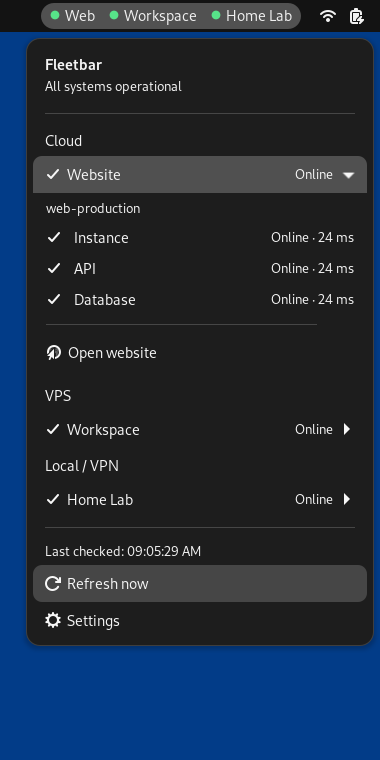
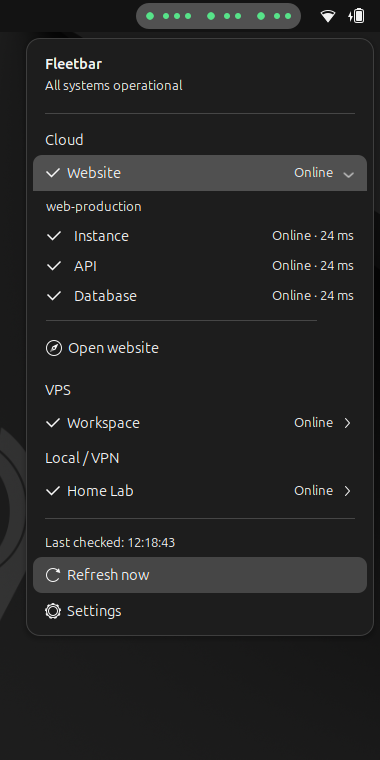
Show one status dot per service in the panel
Every project keeps its aggregate dot and label and gains a smaller dot
per service check, in configured order, so the failing component is
visible at a glance without opening the menu. Service dots use the same
semantic theme colors, name themselves for screen readers and extend
the panel description with the failing services. The new
show-service-dots setting (default on) turns them off for a compact bar.

Updates README, store listing, validation record and screenshots, adds
Spanish translations for the new setting and extends the model and
Shell smoke tests. Version 1.2.0.

diff --git a/shell/projectIndicators.js b/shell/projectIndicators.js
@@ -9,6 +9,10 @@ const darkColors = {up: '#57e389', degraded: '#f8e45c', down: '#ff7b63', unknown
 const lightColors = {up: '#1a7f4b', degraded: '#9c6e03', down: '#c01c28', unknown: '#5e5c64'};
 const themeColors = {up: 'success_color', degraded: 'warning_color', down: 'error_color'};
 
+function stateLabel(state) {
+    return {up: _('Online'), degraded: _('Needs attention'), down: _('Offline'), unknown: _('Unknown')}[state];
+}
+
 export class ProjectIndicators {
     constructor(owner) {
         this.actor = new St.BoxLayout({style_class: 'fleetbar-projects', y_align: Clutter.ActorAlign.CENTER});
@@ -27,24 +31,45 @@ export class ProjectIndicators {
             const label = new St.Label({text: project.panelLabel || project.name, style_class: 'fleetbar-project-label',
                 y_align: Clutter.ActorAlign.CENTER});
             label.clutter_text.ellipsize = Pango.EllipsizeMode.END;
+            const services = new St.BoxLayout({style_class: 'fleetbar-services', y_align: Clutter.ActorAlign.CENTER});
+            const serviceDots = project.services.map(service => {
+                const serviceDot = new St.Icon({icon_name: 'media-record-symbolic',
+                    style_class: 'fleetbar-service-dot', y_align: Clutter.ActorAlign.CENTER});
+                serviceDot.accessible_name = `${service.name}: ${stateLabel('unknown')}`;
+                services.add_child(serviceDot);
+                return {dot: serviceDot, state: 'unknown'};
+            });
             badge.add_child(dot);
             badge.add_child(label);
+            badge.add_child(services);
             this.actor.add_child(badge);
-            this._items.set(project.id, {badge, dot, label, state: 'unknown'});
+            this._items.set(project.id, {badge, dot, label, services, serviceDots, state: 'unknown'});
         }
         this._applyColors();
     }
 
-    update(project, states, showLabels) {
+    update(project, states, showLabels, showServiceDots) {
         const item = this._items.get(project.id);
         const presentation = panelPresentation(project, states);
         item.state = presentation.state;
         item.label.text = presentation.label;
         item.label.visible = showLabels;
-        const state = {up: _('Online'), degraded: _('Needs attention'), down: _('Offline'), unknown: _('Unknown')}[item.state];
+        item.services.visible = showServiceDots;
+        const failed = [];
+        presentation.services.forEach((service, index) => {
+            const entry = item.serviceDots[index];
+            if (!entry)
+                return;
+            entry.state = service.state;
+            entry.dot.accessible_name = `${service.name}: ${stateLabel(service.state)}`;
+            if (service.state !== 'up')
+                failed.push(entry.dot.accessible_name);
+        });
+        const state = stateLabel(item.state);
         item.badge.accessible_name = `${project.name}: ${state}, ${presentation.online}/${presentation.total}`;
         this._applyColors();
-        return `${project.name}: ${state}, ${presentation.online}/${presentation.total}`;
+        const description = `${project.name}: ${state}, ${presentation.online}/${presentation.total}`;
+        return failed.length ? `${description}. ${failed.join(', ')}` : description;
     }
 
     _applyColors() {
@@ -54,17 +79,23 @@ export class ProjectIndicators {
         const foreground = node.get_foreground_color();
         const colors = foreground.red + foreground.green + foreground.blue > 384 ? darkColors : lightColors;
         for (const item of this._items.values()) {
-            let color = colors[item.state];
-            const key = themeColors[item.state];
-            if (key) {
-                const [found, themeColor] = node.lookup_color(key, true);
-                if (found)
-                    color = themeColor.to_string();
-            }
-            const style = `color: ${color};`;
-            if (item.dot.style !== style)
-                item.dot.set_style(style);
+            this._colorDot(node, colors, item.dot, item.state);
+            for (const service of item.serviceDots)
+                this._colorDot(node, colors, service.dot, service.state);
         }
+    }
+
+    _colorDot(node, colors, dot, state) {
+        let color = colors[state];
+        const key = themeColors[state];
+        if (key) {
+            const [found, themeColor] = node.lookup_color(key, true);
+            if (found)
+                color = themeColor.to_string();
+        }
+        const style = `color: ${color};`;
+        if (dot.style !== style)
+            dot.set_style(style);
     }
 
     destroy() {

diff --git a/tests/shell-smoke.js b/tests/shell-smoke.js
@@ -54,6 +54,8 @@ export default class FleetbarSmoke extends Extension {
         await app._refresh();
         assert(app._count.text === '3/3', 'Healthy project count');
         assert(app._indicators.actor.get_n_children() === 3, 'One indicator per project');
+        assert(app._indicators._items.get('website').serviceDots.length === 3, 'One dot per service');
+        assert(app._indicators._items.get('workspace').serviceDots.length === 2, 'One dot per service');
         assert(!app._count.visible, 'Default panel does not duplicate the project count');
         const setTheme = name => {
             const theme = new St.Theme({application_stylesheet:
@@ -72,8 +74,11 @@ export default class FleetbarSmoke extends Extension {
         setTheme('Yaru-blue-dark');
         await pause(500);
         app._update();
-        for (const item of app._indicators._items.values())
+        for (const item of app._indicators._items.values()) {
             assert(item.dot.style.includes('color:'), 'Dots have visible status colors');
+            for (const service of item.serviceDots)
+                assert(service.dot.style.includes('color:'), 'Service dots have visible status colors');
+        }
         await capture('panel-healthy');
         app._button.menu.open();
         app._projectRows.get('website').item.menu.open();
@@ -88,14 +93,22 @@ export default class FleetbarSmoke extends Extension {
         const partial = app._indicators._items.get('workspace');
         assert(partial.state === 'degraded' && partial.label.text.endsWith('1/2'), 'Partial failure shows service counts');
         assert(partial.dot.style !== app._indicators._items.get('website').dot.style, 'Warning color differs from healthy');
+        assert(partial.serviceDots.map(service => service.state).join() === 'up,down', 'Service dots track each service');
+        assert(partial.serviceDots[0].dot.style !== partial.serviceDots[1].dot.style, 'The failing service dot stands out');
+        assert(partial.serviceDots[1].dot.accessible_name.includes('Worker'), 'Service dots name the failing service');
         for (const service of app._projects.find(project => project.id === 'homelab').services)
             results.set(`homelab/${service.id}`, {state: 'down', reason: 'connection', checkedAt: Date.now(), failures: 2});
         app._update();
         const down = app._indicators._items.get('homelab');
         assert(down.state === 'down' && down.label.text.endsWith('0/2'), 'Offline state');
         assert(down.dot.style !== partial.dot.style, 'Offline color differs from warning');
+        assert(down.serviceDots.every(service => service.state === 'down'), 'Every failing service has its own dot');
         await pause(500);
         await capture('panel-outage');
+        app._settings.set_boolean('show-project-labels', false);
+        await pause(500);
+        await capture('panel-compact');
+        app._settings.set_boolean('show-project-labels', true);
         results.clear();
         app._update();
         assert(app._indicators._items.get('website').label.text === 'Web ?', 'Unknown is distinct from healthy');
@@ -115,6 +128,10 @@ export default class FleetbarSmoke extends Extension {
         app._settings.set_boolean('show-project-labels', false);
         assert(!currentPartial.label.visible, 'Compact mode hides labels');
         app._settings.set_boolean('show-project-labels', true);
+        app._settings.set_boolean('show-service-dots', false);
+        assert(!currentPartial.services.visible, 'Service dots can be turned off');
+        app._settings.set_boolean('show-service-dots', true);
+        assert(currentPartial.services.visible, 'Service dots return');
         app._notify('Notification lifecycle smoke test');
         assert(app._notificationSource, 'Notification source exists');
         app.disable();
@@ -129,7 +146,7 @@ export default class FleetbarSmoke extends Extension {
         await pause(500);
         assert(app._indicators.actor.get_n_children() === 3, 'Re-enable restores indicators');
         GLib.file_set_contents(`${output}/passed.txt`, 'passed');
-        console.log('FLEETBAR_TEST_PASS: status dots, service counts, colors, themes, compact mode, notifications and lifecycle');
+        console.log('FLEETBAR_TEST_PASS: project and per-service dots, service counts, colors, themes, compact mode, notifications and lifecycle');
     }
 
     disable() {}

diff --git a/tests/model.test.js b/tests/model.test.js
@@ -8,12 +8,25 @@ const fixture = () => [{id: 'p', name: 'Project', group: 'Provider', services: [
 ]}];
 
 test('top bar distinguishes partial failure, offline and unknown without relying on color', () => {
-    const project = {name: 'My production API', panelLabel: 'API'};
-    assert.deepEqual(panelPresentation(project, ['up', 'up']), {state: 'up', online: 2, total: 2, label: 'API'});
+    const project = {name: 'My production API', panelLabel: 'API', services: [
+        {id: 'api', name: 'API'}, {id: 'db', name: 'Database'}]};
+    assert.deepEqual(panelPresentation(project, ['up', 'up']), {state: 'up', online: 2, total: 2, label: 'API',
+        services: [{name: 'API', state: 'up'}, {name: 'Database', state: 'up'}]});
     assert.equal(panelPresentation(project, ['up', 'down']).label, 'API 1/2');
     assert.equal(panelPresentation(project, ['down', 'down']).label, 'API 0/2');
     assert.equal(panelPresentation(project, ['up', 'unknown']).label, 'API ?');
     assert.equal(panelPresentation({name: 'Website'}, ['up']).label, 'Website');
+});
+
+test('the panel keeps one dot state per service in configured order, even when details are missing', () => {
+    const project = {name: 'API', services: [{id: 'api', name: 'API'}, {id: 'worker', name: 'Worker'}]};
+    assert.deepEqual(panelPresentation(project, ['down', 'up']).services,
+        [{name: 'API', state: 'down'}, {name: 'Worker', state: 'up'}]);
+    assert.deepEqual(panelPresentation(project, ['up', 'unknown']).services,
+        [{name: 'API', state: 'up'}, {name: 'Worker', state: 'unknown'}]);
+    assert.deepEqual(panelPresentation(project, []).services, []);
+    assert.deepEqual(panelPresentation({name: 'API'}, ['up', 'down']).services,
+        [{name: '', state: 'up'}, {name: '', state: 'down'}]);
 });
 
 test('editing health values preserves string, numeric, boolean and null response types', () => {

diff --git a/extension.js b/extension.js
@@ -66,7 +66,7 @@ export default class FleetbarExtension extends Extension {
         this._button.add_child(box);
         Main.panel.addToStatusArea(this.uuid, this._button);
         this._settingsSignal = this._settings.connect('changed', (_settings, key) => {
-            if (key === 'show-count' || key === 'show-project-labels')
+            if (key === 'show-count' || key === 'show-project-labels' || key === 'show-service-dots')
                 this._update();
             else if (key === 'refresh-interval')
                 this._schedule();
@@ -327,6 +327,7 @@ export default class FleetbarExtension extends Extension {
         const states = [];
         const descriptions = [];
         const showLabels = this._settings.get_boolean('show-project-labels');
+        const showServiceDots = this._settings.get_boolean('show-service-dots');
         for (const project of this._projects) {
             const services = project.services.map(service => {
                 const key = `${project.id}/${service.id}`;
@@ -340,7 +341,7 @@ export default class FleetbarExtension extends Extension {
             });
             const state = aggregate(services);
             states.push(state);
-            descriptions.push(this._indicators.update(project, services, showLabels));
+            descriptions.push(this._indicators.update(project, services, showLabels, showServiceDots));
             const row = this._projectRows.get(project.id);
             row.icon.icon_name = icons[state];
             row.state.text = stateLabel(state);

diff --git a/lib/model.js b/lib/model.js
@@ -118,7 +118,10 @@ export function panelPresentation(project, states) {
     const name = project.panelLabel || project.name;
     const online = states.filter(value => value === 'up').length;
     const suffix = state === 'up' ? '' : state === 'unknown' ? ' ?' : ` ${online}/${states.length}`;
-    return {state, online, total: states.length, label: name + suffix};
+    // Per-service states in configured order, for the smaller panel dots.
+    const services = states.map((serviceState, index) => ({name: project.services?.[index]?.name ?? '',
+        state: serviceState}));
+    return {state, online, total: states.length, label: name + suffix, services};
 }
 
 export function transition(previous, observed) {

diff --git a/prefs/preferences.js b/prefs/preferences.js
@@ -275,6 +275,7 @@ export function buildPreferences(window, settings) {
     behaviorPage.add(appearance);
     for (const [key, title, subtitle] of [
         ['show-project-labels', _('Show project names'), _('Display each project name beside its status dot')],
+        ['show-service-dots', _('Show service dots'), _('Display one dot per service beside each project')],
         ['show-count', _('Show project count'), _('Online projects / total projects')],
         ['notifications', _('Notify on status changes'), _('Confirmed outages and recoveries, grouped per check')],
     ]) {

diff --git a/stylesheet.css b/stylesheet.css
@@ -3,6 +3,8 @@
 .fleetbar-projects { spacing: 14px; }
 .fleetbar-project { spacing: 5px; }
 .fleetbar-dot { icon-size: 10px; }
+.fleetbar-services { spacing: 3px; margin-left: 2px; }
+.fleetbar-service-dot { icon-size: 8px; }
 .fleetbar-project-label { max-width: 9em; }
 .fleetbar-heading { spacing: 4px; padding: 4px 0; min-width: 310px; }
 .fleetbar-title { font-weight: bold; }

diff --git a/scripts/build-translations.py b/scripts/build-translations.py
@@ -11,6 +11,8 @@ translations = {
     'A short name such as API or Web. Leave empty to use the project name.': 'Un nombre corto como API o Web. Déjalo vacío para usar el nombre del proyecto.',
     'Show project names': 'Mostrar nombres de proyectos',
     'Display each project name beside its status dot': 'Mostrar el nombre de cada proyecto junto a su indicador de estado',
+    'Show service dots': 'Mostrar puntos de servicio',
+    'Display one dot per service beside each project': 'Mostrar un punto por servicio junto a cada proyecto',
     'Online': 'En línea',
     'Needs attention': 'Requiere atención',
     'Offline': 'Sin conexión',

diff --git a/README.md b/README.md
@@ -2,7 +2,7 @@
 
 **Know which projects need attention, straight from your GNOME top bar.**
 
-Fleetbar gives each project a named status dot. Open the menu for services, response times, providers and shortcuts. Configure your own endpoints and groups in native Libadwaita settings.
+Fleetbar gives each project a named status dot and a smaller dot for every service check, so a failing component is visible at a glance. Open the menu for services, response times, providers and shortcuts. Configure your own endpoints and groups in native Libadwaita settings.
 
 | Indicator | Meaning |
 | --- | --- |
@@ -11,11 +11,12 @@ Fleetbar gives each project a named status dot. Open the menu for services, resp
 | Red | Every service has a confirmed failure |
 | Gray | Checking, unavailable or out of date |
 
-Labels show healthy service counts during failures (`API 2/3`) and `?` when status is uncertain. Names, menu text and screen reader descriptions accompany the colors. Set a short top bar label for any project, or turn names off for a compact row of dots.
+Each project is followed by one smaller dot per service, in the configured order, matching the service rows in the menu. Labels show healthy service counts during failures (`API 2/3`) and `?` when status is uncertain. Names, menu text and screen reader descriptions accompany the colors. Set a short top bar label for any project, turn names off for a compact row of dots, or hide service dots in Settings.
 
 ## Features
 
 - Providers and projects grouped in one native panel menu.
+- One smaller status dot per service, so a failing component is visible without opening the menu.
 - HTTP health checks with exact JSON field matching, TCP connectivity checks, and optional local monitor files.
 - Shared HTTP endpoints are polled once per cycle. At most eight service checks run concurrently.
 - Configurable refresh interval and connection timeout. Two failed checks confirm an outage; stale data never counts as healthy.
@@ -36,7 +37,7 @@ GNOME Shell **46**. GTK 4.12+ / Libadwaita 1.4+ and libsoup 3 are required. This
 
 On X11, use Alt+F2, type `r`, and press Enter after installation or JavaScript updates. On Wayland, log out and back in. Enable **Fleetbar** in GNOME Extensions if necessary.
 
-Open Fleetbar → Settings → **+** to add a project, its provider and services. Optional top bar labels keep long names compact. Monitoring settings control polling, timeouts, project labels, aggregate count and notifications.
+Open Fleetbar → Settings → **+** to add a project, its provider and services. Optional top bar labels keep long names compact. Monitoring settings control polling, timeouts, project labels, service dots, aggregate count and notifications.
 
 To import an existing configuration:
 
@@ -58,7 +59,7 @@ See [config.example.json](config.example.json) for the format. The earlier local
 {"services":{"worker":{"status":"up","failures":0}}}
 ```
 
-A project is online only when all of its checks are healthy. The first failed observation shows Unknown while confirming. Mixed healthy/failed services show Needs attention; all failed services show Offline. Expired results become Unknown after two refresh intervals plus the timeout. Notifications start after a previously observed healthy/unhealthy state and are off by default.
+A project is online only when all of its checks are healthy. The first failed observation shows Unknown while confirming. Mixed healthy/failed services show Needs attention; all failed services show Offline. Each service dot follows its own check, so the failing component is identifiable in the top bar and repeated with names in the menu. Expired results become Unknown after two refresh intervals plus the timeout. Notifications start after a previously observed healthy/unhealthy state and are off by default.
 
 ## Privacy and security
 

diff --git a/docs/VALIDATION.md b/docs/VALIDATION.md
@@ -1,12 +1,12 @@
 # Validation, 2026-10-16
 
-Fleetbar 1.1.0 was verified on GNOME Shell 46 / Ubuntu 24.04.
+Fleetbar 1.2.0 was verified on GNOME Shell 46 / Ubuntu 24.04.
 
 - ESLint 10: passes with no reported errors.
-- Pure model tests: nine cases cover top bar presentation, typed health expectations, strict response matching, partial/unknown states, confirmation/recovery transitions, expiry and unsafe configuration rejection.
+- Pure model tests: ten cases cover top bar presentation, per-service dot states and ordering, typed health expectations, strict response matching, partial/unknown states, confirmation/recovery transitions, expiry and unsafe configuration rejection.
 - Real GJS / libsoup / Gio fixtures: shared-endpoint deduplication, unhealthy responses, redirects, oversized responses, TCP, deadlines, stale monitor data and cancellation pass.
-- Native Shell harness: project dots, distinct status colors, counts, compact mode, light/dark Yaru, notifications, resource cleanup, re-enable, concurrent config loading and stale results during busy checks pass.
-- Native Libadwaita project and monitoring preferences render, including Spanish text and the optional top bar label.
+- Native Shell harness: project dots with a per-service panel dot each, distinct status colors, counts, compact mode, light/dark Yaru, notifications, resource cleanup, re-enable, concurrent config loading and stale results during busy checks pass.
+- Native Libadwaita project and monitoring preferences render, including Spanish text, the optional top bar label and the service-dot switch.
 - The migrated private installation is active. All 16 checks across the owner's three projects passed the read-only live audit.
 - Runtime ZIP inventory and private-data checks pass. No production configuration, tests, npm dependencies or development scripts are included.
 

diff --git a/docs/STORE_LISTING.md b/docs/STORE_LISTING.md
@@ -2,18 +2,19 @@
 
 **Name:** Fleetbar
 
-**Summary:** Named status dots for your servers and projects, right in the top bar.
+**Summary:** Named status dots for every project and service, right in the top bar.
 
 **Description:**
 
-Know which project needs attention without opening a dashboard. Fleetbar puts a named, colored status dot for each project in your GNOME top bar. Green means healthy, amber means a partial failure, red means offline, and gray means unknown or stale. Failure labels show how many services are healthy.
+Know which component needs attention without opening a dashboard. Fleetbar puts a named, colored status dot for each project in your GNOME top bar, followed by one smaller dot per service, so the failing component is visible at a glance. Green means healthy, amber means a partial failure, red means offline, and gray means unknown or stale. Failure labels show how many services are healthy.
 
 Expand a project to inspect individual service checks, response times and the last update. Group projects by provider and open websites, local folders or SSH connections from the same menu.
 
 * HTTP health checks with optional JSON response matching
 * TCP instance checks and optional local monitor files
+* One status dot per service, in the same order as the menu
 * Native settings, light/dark themes and English/Spanish translations
-* Adjustable polling, timeouts, compact labels and optional notifications
+* Adjustable polling, timeouts, compact labels, service dots and optional notifications
 * No telemetry, cloud account or subscription
 
 Requires GNOME 46. SSH shortcuts use GNOME Terminal and OpenSSH. Configure your own projects and endpoints in Settings.
